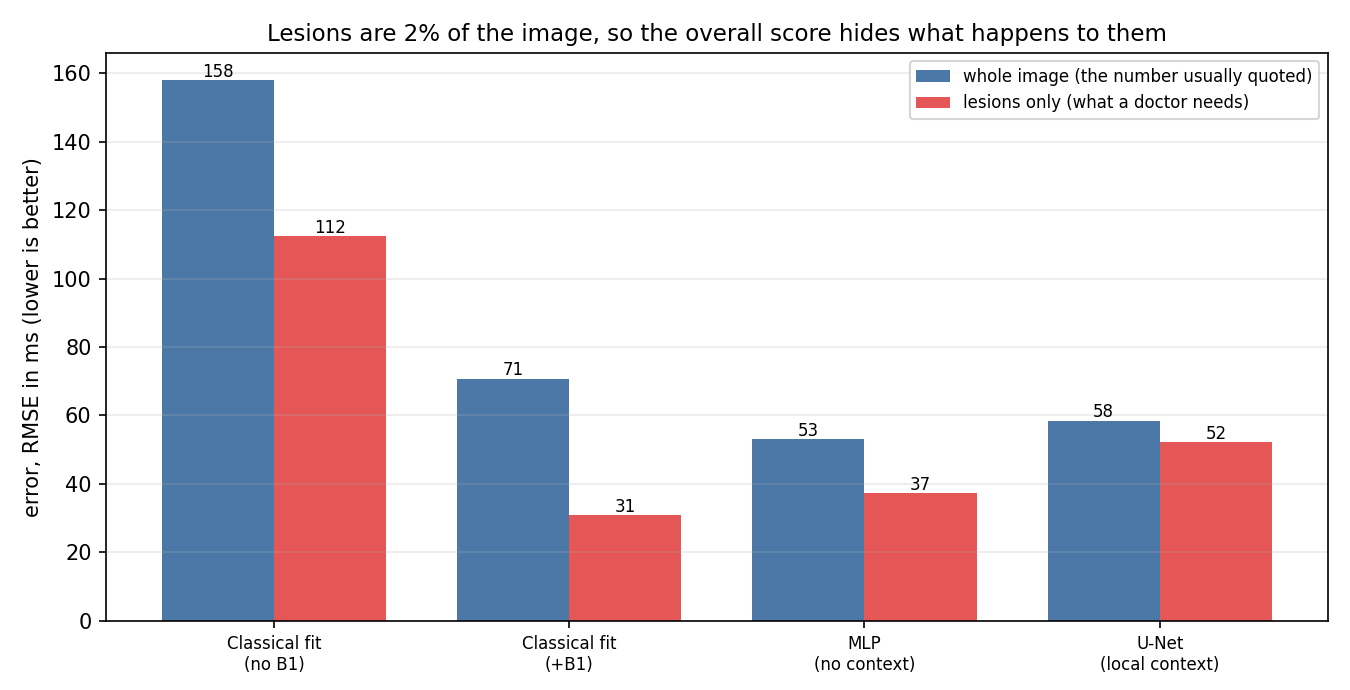
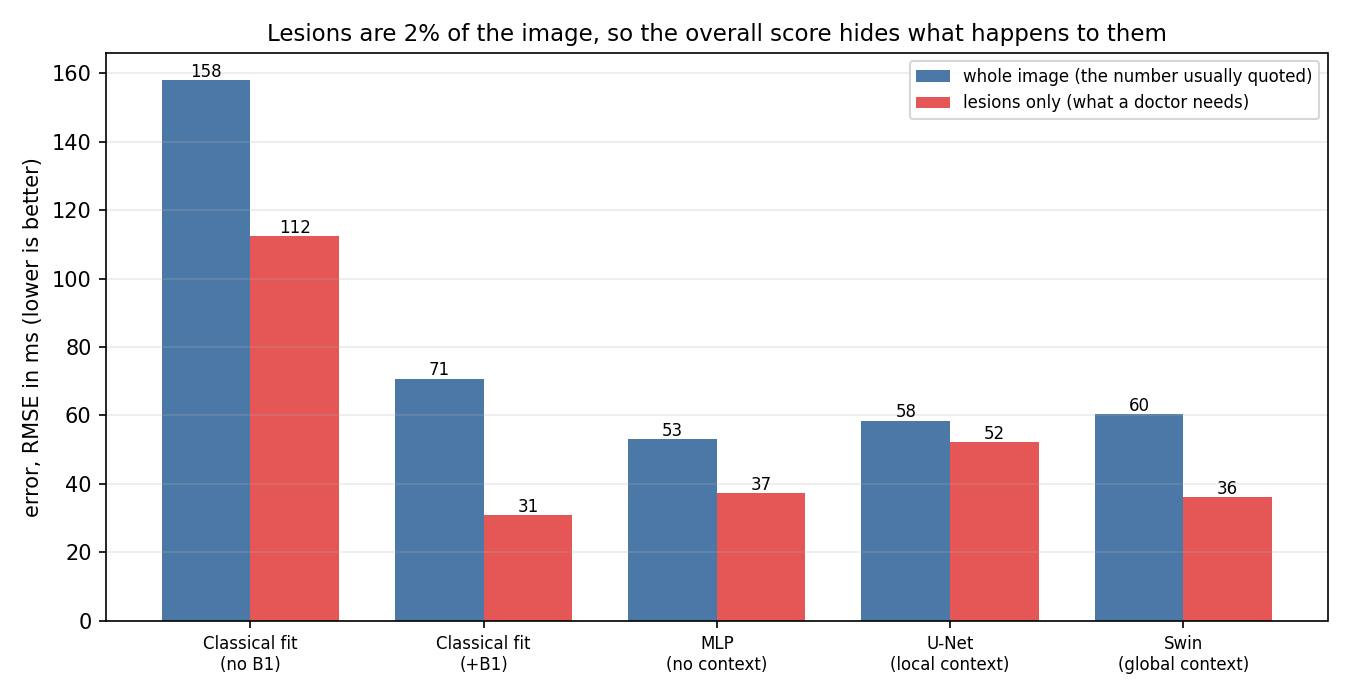
Swin trained: the prediction failed, and the failure is the finding
Predicted that the model seeing furthest would erase most. It does not.

  model              receptive field   retention at 2-4 px   lesion RMSE
  MLP                           1 px                  1.06          37.3
  U-Net depth 3                92 px                  0.87          52.1
  Swin depth 2                224 px                  0.94          36.1

The Swin sees 2.4x further than the U-Net and loses half as much
small-lesion contrast, with lesion error close to the voxel-wise methods.
So how far a model can reach is not what decides whether a small structure
survives.

A mechanism that fits: convolution blends a pixel with its neighbours using
fixed weights whatever they contain, while attention weights each neighbour
by how similar it is -- and a lesion is exactly a region that does not
resemble its surroundings. Content-adaptive mixing can decline to average
away what does not match. That is a hypothesis this design can test, not a
result.

Figure title corrected: "fade under spatial ones" was wrong once the Swin
was in, since it is spatial and fades far less.

Caveats now stated in the README rather than left implicit. Neither network
is confirmed converged -- U-Net best epoch 189/200, Swin 95/100, both
stopped by the epoch cap rather than by plateauing. That is not pedantry: a
40-epoch U-Net appeared to erase 38% of small lesions, which fell to 13%
when trained properly. One seed each, and the two spatial models match on
[…]

Changed region(s): [[0.2489, 0.3348, 0.9644, 0.9739], [0.1556, 0.1217, 0.2489, 0.9739], [0.1244, 0.0913, 0.1867, 0.1217]]

diff --git a/scripts/make_figures.py b/scripts/make_figures.py
@@ -119,7 +119,8 @@ def figure_retention(methods, test_set) -> None:
     ax.set_xlabel("lesion size (pixels across)")
     ax.set_ylabel("fraction of lesion contrast recovered")
     ax.set_title(
-        "Small lesions survive voxel-wise methods and fade under spatial ones",
+        "Both spatial models fade on small lesions — but the one that sees\n"
+        "further fades less, so reach is not the mechanism",
         fontsize=11,
     )
     ax.set_xticks(centres)

diff --git a/README.md b/README.md
@@ -49,12 +49,23 @@ rest are excluded and reported as excluded.
 
 Every method that works **one voxel at a time** returns a flat line: a tiny
 lesion survives as well as a large one, because a method with no neighbours
-has nothing to blur it with. The U-Net bends. It recovers lesions of 8–12
-pixels perfectly and loses roughly 13% of the contrast of the smallest.
+has nothing to blur it with. Both spatial models bend downward on the
+smallest lesions — the U-Net loses about 13% of their contrast, the Swin
+Transformer about 6%.
 
 The MLP is the control that makes this attributable. It learns from the same
 data, with the same loss, and is also flat — so the difference is **spatial
 context**, not learning.
+
+**And the obvious explanation for it is wrong.** The Swin sees 224 pixels
+against the U-Net's 92, so if the damage were simply a matter of how far a
+model can reach, the Swin should be worse. It is consistently better. That
+points at *how* context is used rather than how much is available:
+convolution blends a pixel with its neighbours using fixed weights
+regardless of what they contain, while attention weights each neighbour by
+how similar it is, and a lesion is precisely a region that does not resemble
+its surroundings. That is a hypothesis this design can go on to test, not a
+result — see the caveats below.
 
 ![Overall error against lesion-only error](figures/overall_vs_lesion_error.png)
 
@@ -63,6 +74,22 @@ on the proper classical baseline, 58 ms against 71. Judged on lesions alone
 it is far worse, 52 ms against 31. Lesions are about 2% of the voxels, so the
 number almost everyone reports is dominated by the tissue where the method
 does well.
+
+### Caveats, stated plainly
+
+**Neither network is confirmed converged.** The U-Net's best epoch was 189
+of 200 and the Swin's 95 of 100: both stopped because they ran out of
+epochs, not because they had plateaued. This matters more than it sounds.
+An earlier U-Net run, stopped at 40 epochs, appeared to erase 38% of small
+lesions; trained properly that fell to 13%. An undertrained network and a
+smoothing network produce the same-shaped curve, so no number here should be
+quoted until training ends by its own stopping criterion.
+
+**One seed each.** Nothing here is repeated, so the differences between
+models are not yet shown to exceed run-to-run variation.
+
+**The two spatial models are not matched on parameters** (483k against
+759k), only on how far they downsample.
 
 ![T1 maps from each method](figures/t1_maps.png)
 
